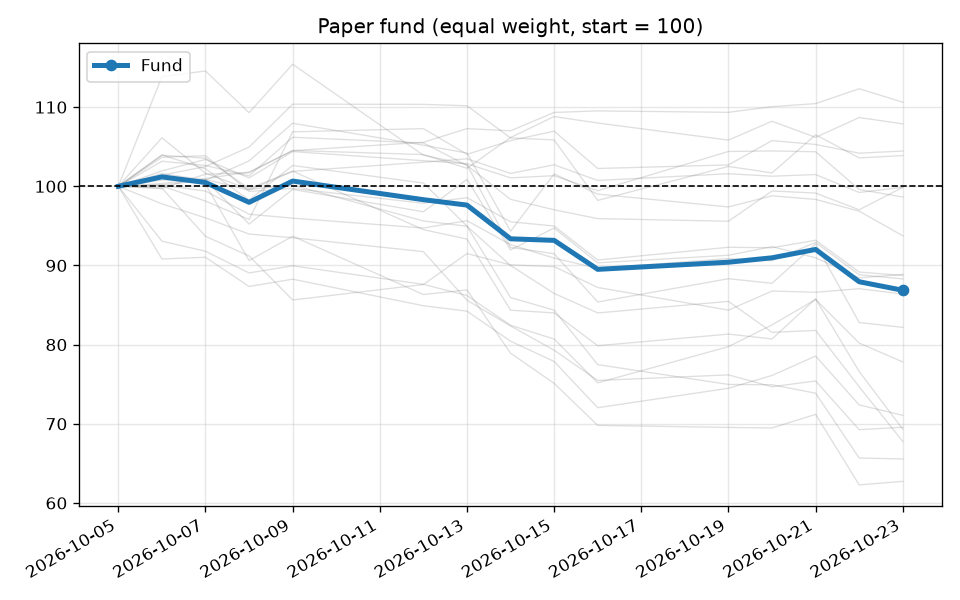
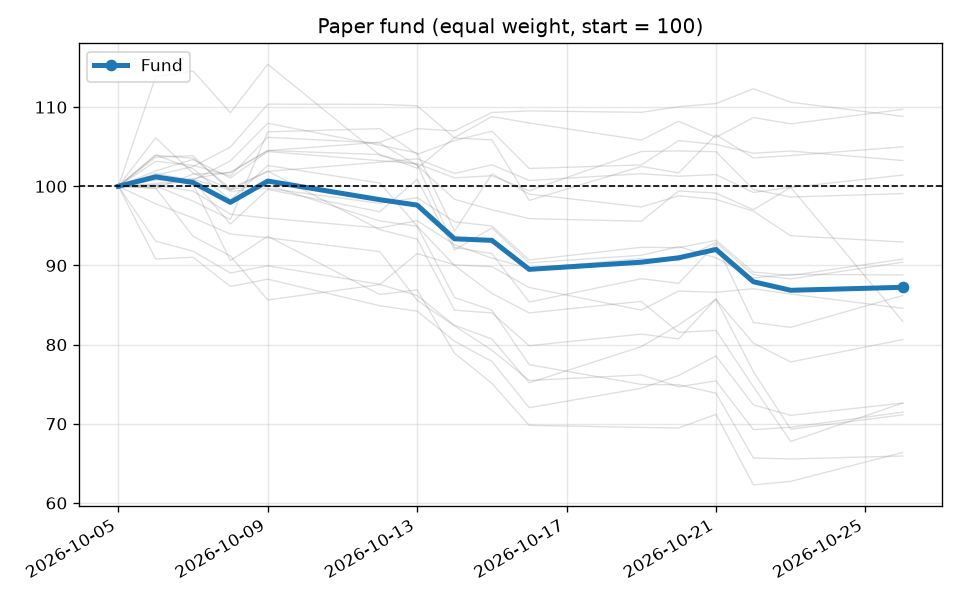
Update fund 2026-10-27

diff --git a/README.md b/README.md
@@ -2,55 +2,55 @@
 
 ![chart](fund_chart.png)
 
-**Fund value: 86.87** (as of 2026-10-23, start = 100)
+**Fund value: 87.24** (as of 2026-10-26, start = 100)
 
 | Period | Return |
 |---|---|
-| 1 day | -1.23% |
-| 1 week | -2.95% |
-| Since start | -13.13% |
+| 1 day | +0.43% |
+| 1 week | -3.51% |
+| Since start | -12.76% |
 
 **Best 3 since start**
 
-- MA: +10.62%
-- GILD: +7.89%
-- HUM: +4.45%
+- GILD: +9.72%
+- MA: +8.83%
+- PLTR: +4.98%
 
 **Worst 3 since start**
 
-- COHR: -37.27%
-- FLEX: -34.44%
-- FIX: -32.24%
+- FLEX: -34.06%
+- COHR: -33.61%
+- CRDO: -28.86%
 
 ## Revolut forecast vs actual
 
 Forecast snapshot from 2026-10-05. Horizon not stated by Revolut; assumed 12 months.
 
 - Fund promised: **+37.25%** in 12 months
-- Pro-rated for 18 days (capped at 12 months): +1.84%
-- Actual so far: **-13.13%**
+- Pro-rated for 21 days (capped at 12 months): +2.14%
+- Actual so far: **-12.76%**
 
 | Stock | Promised | Actual |
 |---|---|---|
-| MA | +31.18% | +10.62% |
-| GILD | +28.18% | +7.89% |
-| HUM | +48.65% | +4.45% |
-| PLTR | +30.42% | +3.88% |
-| MSFT | +29.90% | -0.13% |
-| NU | +33.48% | -0.13% |
-| AMZN | +30.67% | -1.35% |
-| AFRM | +34.11% | -6.25% |
-| ORCL | +34.94% | -11.13% |
-| AVGO | +56.39% | -11.26% |
-| NVDA | +56.21% | -11.70% |
-| CNH | +29.83% | -13.61% |
-| CIEN | +41.51% | -17.82% |
-| WDC | +48.84% | -22.18% |
-| STX | +56.29% | -28.93% |
-| AMAT | +33.81% | -30.43% |
-| CRDO | +28.09% | -30.68% |
-| FIX | +28.46% | -32.24% |
-| FLEX | +29.57% | -34.44% |
-| COHR | +34.52% | -37.27% |
+| GILD | +28.18% | +9.72% |
+| MA | +31.18% | +8.83% |
+| PLTR | +30.42% | +4.98% |
+| HUM | +48.65% | +3.25% |
+| MSFT | +29.90% | +1.41% |
+| AMZN | +30.67% | -0.92% |
+| AFRM | +34.11% | -7.04% |
+| AVGO | +56.39% | -9.20% |
+| NVDA | +56.21% | -9.59% |
+| ORCL | +34.94% | -11.20% |
+| CIEN | +41.51% | -13.80% |
+| CNH | +29.83% | -15.41% |
+| NU | +33.48% | -17.06% |
+| WDC | +48.84% | -19.36% |
+| FIX | +28.46% | -27.37% |
+| STX | +56.29% | -27.38% |
+| AMAT | +33.81% | -28.53% |
+| CRDO | +28.09% | -28.86% |
+| COHR | +34.52% | -33.61% |
+| FLEX | +29.57% | -34.06% |
 
 _Imaginary equal-weight buy-and-hold fund, not a real investment._
